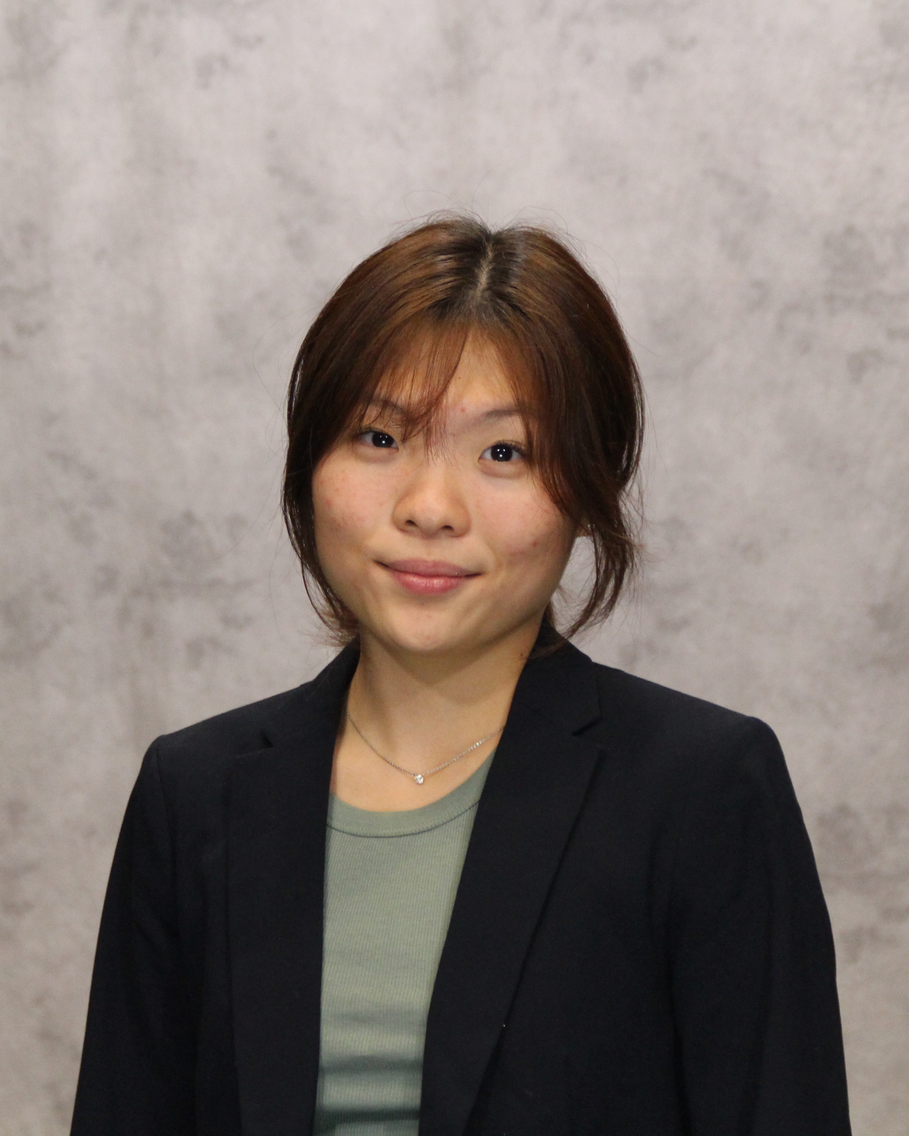
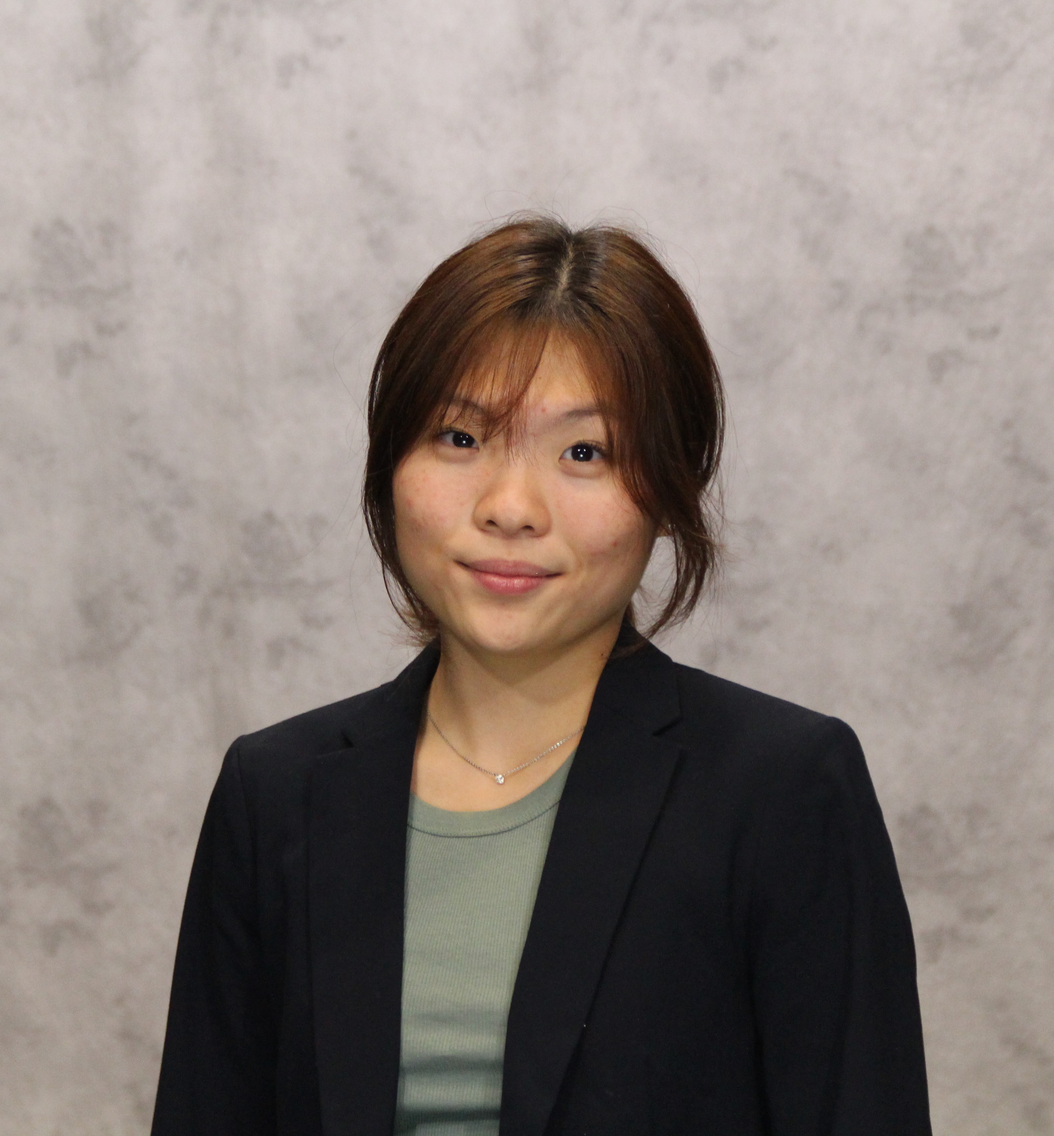
exec team photo improvements

diff --git a/src/components/officerCard.js b/src/components/officerCard.js
@@ -5,7 +5,7 @@ export default function OfficerCard({ name, position, bio, quote, image }) {
     return (
         <figure class="md:flex bg-white bg-opacity-5 rounded-xl p-8 md:p-0">
             <div class="pt-6 md:p-8 text-center md:text-left space-y-4 h-fit">
-                <Image draggable={false} width={500} height={500} src={`/static/officers/${image}.JPG`} alt="" class="object-cover object-top h-96 opacity-75 rounded-l-lg rounded-r-lg mx-auto"/>
+                <Image draggable={false} width={500} height={500} src={`/static/officers/${image}.JPG`} alt="" class="object-cover object-center h-96 opacity-75 rounded-l-lg rounded-r-lg mx-auto"/>
                 <figcaption class="font-medium">
                     <div class="font-bold text-xl text-watermelon-red">
                         {name}
